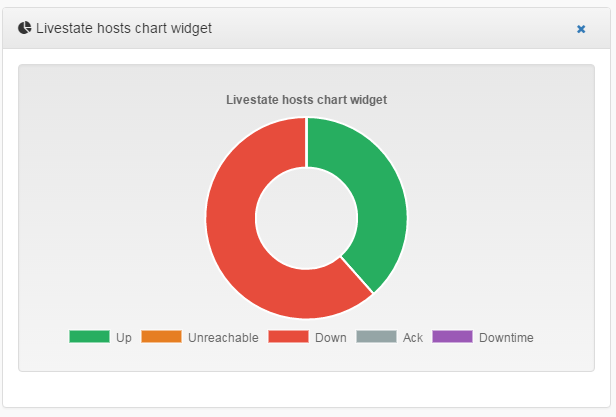
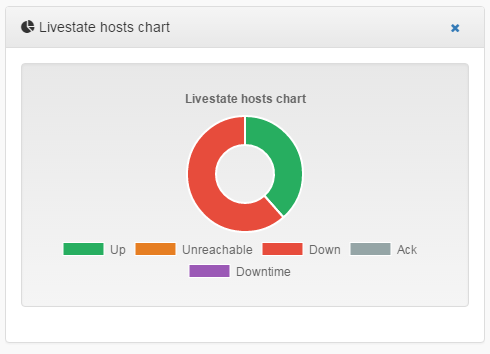
New livestate widgets: hosts/services history

diff --git a/alignak_webui/htdocs/js/alignak_webui-layout.js b/alignak_webui/htdocs/js/alignak_webui-layout.js
@@ -38,53 +38,65 @@ var log_layout=false;
  */
 var g_hosts_states = {
    'up': {
-      'color': '#27ae60',
+      'color': 'rgba(39, 174, 96, 1)',
+      'background': 'rgba(39, 174, 96, 0.2)',
       'label': 'Up'
    },
    'unreachable': {
-      'color': '#e67e22',
+      'color': 'rgba(230, 126, 34, 1)',
+      'background': 'rgba(230, 126, 34, 0.2)',
       'label': 'Unreachable'
    },
    'down': {
-      'color': '#e74c3c',
+      'color': 'rgba(231, 76, 60, 1)',
+      'background': 'rgba(231, 76, 60, 0.2)',
       'label': 'Down'
    },
    'unknown': {
-      'color': '#2980b9',
+      'color': 'rgba(41, 128, 185, 1)',
+      'background': 'rgba(41, 128, 185, 0.2)',
       'label': 'Unknown'
    },
    'acknowledged': {
-      'color': '#95a5a6',
+      'color': 'rgba(149, 165, 166, 1)',
+      'background': 'rgba(149, 165, 166, 0.2)',
       'label': 'Ack'
    },
    'in_downtime': {
-      'color': '#9b59b6',
+      'color': 'rgba(155, 89, 182, 1)',
+      'background': 'rgba(155, 89, 182, 0.2)',
       'label': 'Downtime'
    }
 };
 var g_services_states = {
    'ok': {
-      'color': '#27ae60',
+      'color': 'rgba(39, 174, 96, 1)',
+      'background': 'rgba(39, 174, 96, 0.2)',
       'label': 'Ok'
    },
    'warning': {
-      'color': '#e67e22',
+      'color': 'rgba(230, 126, 34, 1)',
+      'background': 'rgba(230, 126, 34, 0.2)',
       'label': 'Warning'
    },
    'critical': {
-      'color': '#e74c3c',
+      'color': 'rgba(231, 76, 60, 1)',
+      'background': 'rgba(231, 76, 60, 0.2)',
       'label': 'Critical'
    },
    'unknown': {
-      'color': '#2980b9',
+      'color': 'rgba(41, 128, 185, 1)',
+      'background': 'rgba(41, 128, 185, 0.2)',
       'label': 'Unknown'
    },
    'acknowledged': {
-      'color': '#95a5a6',
+      'color': 'rgba(149, 165, 166, 1)',
+      'background': 'rgba(149, 165, 166, 0.2)',
       'label': 'Ack'
    },
    'in_downtime': {
-      'color': '#9b59b6',
+      'color': 'rgba(155, 89, 182, 1)',
+      'background': 'rgba(155, 89, 182, 0.2)',
       'label': 'Downtime'
    }
 };

diff --git a/alignak_webui/plugins/livestate/livestate.py b/alignak_webui/plugins/livestate/livestate.py
@@ -530,7 +530,7 @@ pages = {
             {
                 'id': 'livestate_table',
                 'for': ['external', 'dashboard'],
-                'name': _('Livestate table widget'),
+                'name': _('Livestate table'),
                 'template': 'livestate_table_widget',
                 'icon': 'table',
                 'description': _(
@@ -562,7 +562,7 @@ pages = {
             {
                 'id': 'livestate_hosts_chart',
                 'for': ['external', 'dashboard'],
-                'name': _('Livestate hosts chart widget'),
+                'name': _('Livestate hosts chart'),
                 'template': 'livestate_hosts_chart_widget',
                 'icon': 'pie-chart',
                 'description': _(
@@ -575,7 +575,7 @@ pages = {
             {
                 'id': 'livestate_services_chart',
                 'for': ['external', 'dashboard'],
-                'name': _('Livestate services chart widget'),
+                'name': _('Livestate services chart'),
                 'template': 'livestate_services_chart_widget',
                 'icon': 'pie-chart',
                 'description': _(
@@ -586,9 +586,35 @@ pages = {
                 'options': {}
             },
             {
+                'id': 'livestate_hosts_history_chart',
+                'for': ['external', 'dashboard'],
+                'name': _('Livestate hosts history chart'),
+                'template': 'livestate_hosts_history_chart_widget',
+                'icon': 'pie-chart',
+                'description': _(
+                    '<h4>Hosts livestate history chart widget</h4>Displays a line chart with '
+                    'the monitored system hosts states on a recent period of time.'
+                ),
+                'picture': 'htdocs/img/livestate_hosts_history_chart_widget.png',
+                'options': {}
+            },
+            {
+                'id': 'livestate_services_history_chart',
+                'for': ['external', 'dashboard'],
+                'name': _('Livestate services history chart'),
+                'template': 'livestate_services_history_chart_widget',
+                'icon': 'pie-chart',
+                'description': _(
+                    '<h4>Services livestate history chart widget</h4>Displays a line chart with '
+                    'the monitored system sevices states on a recent period of time.'
+                ),
+                'picture': 'htdocs/img/livestate_services_history_chart_widget.png',
+                'options': {}
+            },
+            {
                 'id': 'livestate_hosts_counters',
                 'for': ['external', 'dashboard'],
-                'name': _('Livestate hosts counters widget'),
+                'name': _('Livestate hosts counters'),
                 'template': 'livestate_hosts_counters_widget',
                 'icon': 'plus-square',
                 'description': _(
@@ -601,7 +627,7 @@ pages = {
             {
                 'id': 'livestate_services_counters',
                 'for': ['external', 'dashboard'],
-                'name': _('Livestate services counters widget'),
+                'name': _('Livestate services counters'),
                 'template': 'livestate_services_counters_widget',
                 'icon': 'plus-square',
                 'description': _(
@@ -614,7 +640,7 @@ pages = {
             {
                 'id': 'livestate_hosts_sla',
                 'for': ['external', 'dashboard'],
-                'name': _('Livestate hosts SLA widget'),
+                'name': _('Livestate hosts SLA'),
                 'template': 'livestate_hosts_sla_widget',
                 'icon': 'life-saver',
                 'description': _(
@@ -627,7 +653,7 @@ pages = {
             {
                 'id': 'livestate_services_sla',
                 'for': ['external', 'dashboard'],
-                'name': _('Livestate services SLA widget'),
+                'name': _('Livestate services SLA'),
                 'template': 'livestate_services_sla_widget',
                 'icon': 'life-saver',
                 'description': _(
